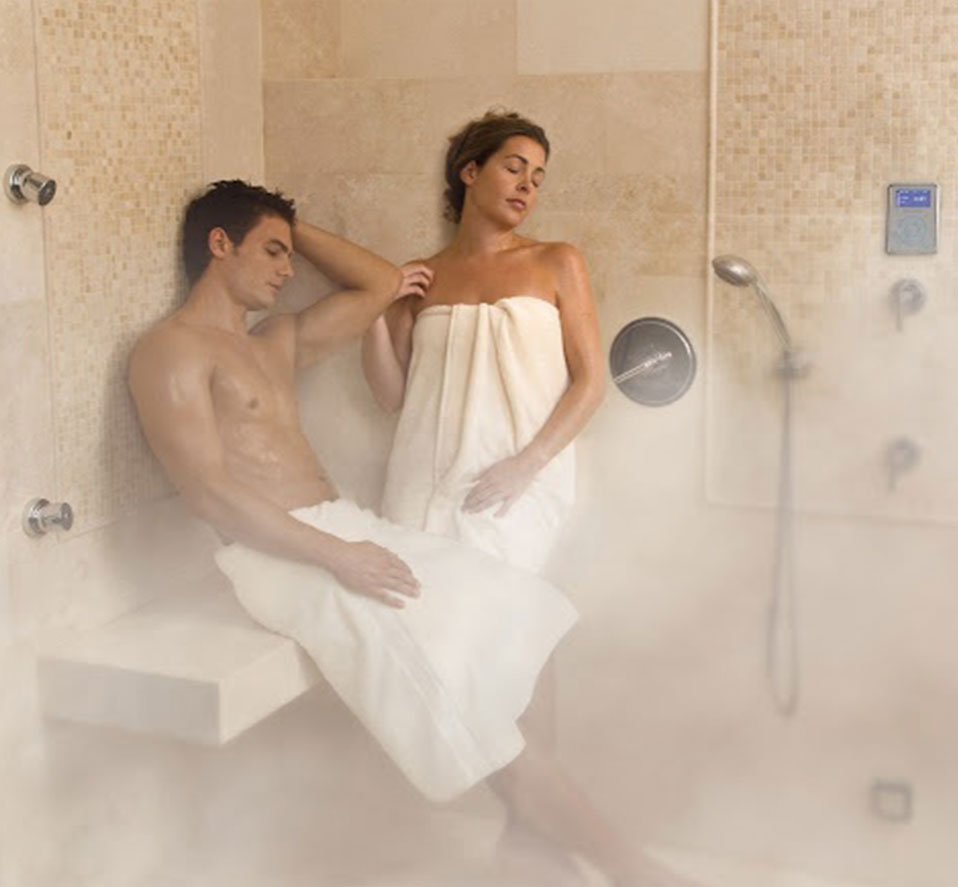
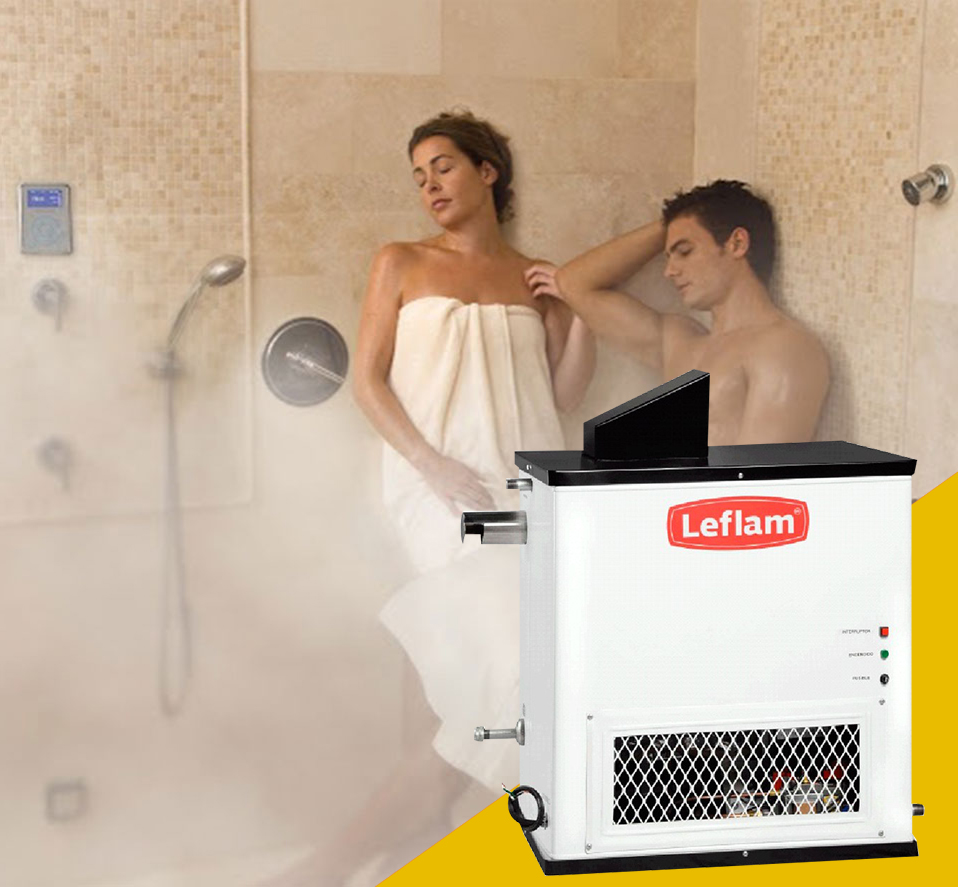
Ajustes

diff --git a/less/main.less b/less/main.less
@@ -543,6 +543,9 @@ input.boton{
             .columna:last-child{
                 img{
                     position: absolute;
+                    margin-top: 50px;
+                    width: 100%;
+                    max-width: 616px;
                 }
             }
         }

diff --git a/less/main.css b/less/main.css
@@ -478,6 +478,9 @@ input.boton.azul.subrayado-amarillo {
 }
 #venta .venta .flex .columna:last-child img {
   position: absolute;
+  margin-top: 50px;
+  width: 100%;
+  max-width: 616px;
 }
 #venta .generadores {
   margin-top: 50px;

diff --git a/templates/home.php b/templates/home.php
@@ -103,7 +103,7 @@ get_header();
                 </div>
                 <div class="columna">
                     <img src="<?php echo get_stylesheet_directory_uri(); ?>/img/inicio/3.png" alt="Generadores de Vapor en Gas LP">
-                    <p>Generadores de vapor en gas L.P.  o natural y eléctricos para la zona residencial, comercial y hotelera</p>
+                    <p>Generadores de vapor en gas L.P.  o natural y eléctricos para la zona residencial, comercial, SPA y hotelera</p>
                     <a href="" class="boton azul center">Me interesa</a>
                 </div>
             </div>
